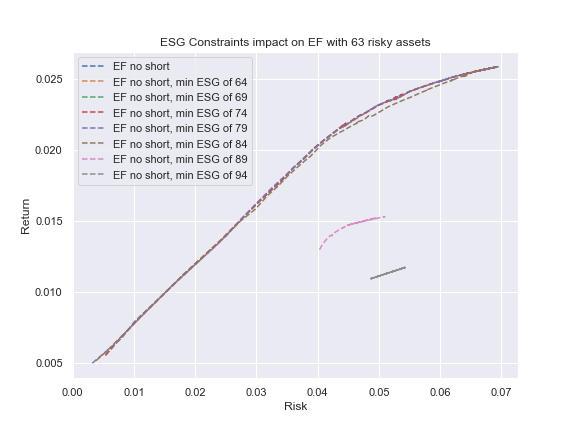
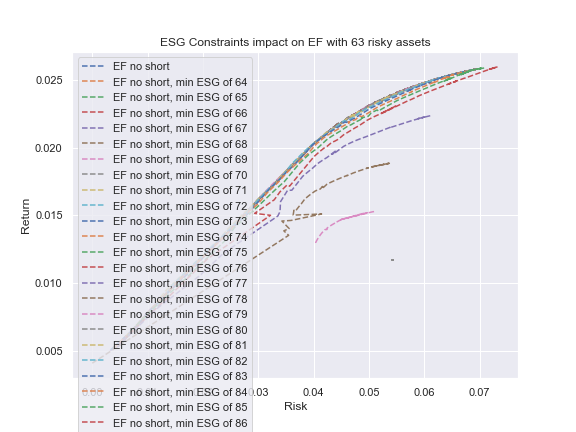
figures for exclusion method

diff --git a/Tests_ESG.py b/Tests_ESG.py
@@ -65,8 +65,8 @@ st.process_data()
 st.compute_monthly_returns()
 
 # 0: MSCI 1: Sustainalytics 2: S&P 3: Refinitiv
-provider = 'Worst'
-_ = st.keep_common_tickers(ESGTV3, sectors_list)
+provider = 'Su'
+_ = st.keep_common_tickers(agencies_df_list[1], sectors_list)
 #_ = st.keep_common_tickers(ESGTV, sectors_list)
 
 stocks_sectors, stocks_ESG = st.select_assets(5)
@@ -111,3 +111,37 @@ for min_ESG in range(int(min(stocks_ESG)), int(max(stocks_ESG)) + step, step):
         save = True
     epf.plot_constrained_frontier(risks_new, returns_new, ESG_min_level = min_ESG, savefig = save, score_source = provider)
     count += 1
+
+#%% Exclude worst ESG stocks from the universe
+
+threshold_list = np.arange(0, 1, 0.05)
+sharpes_t = []
+# 0: MSCI 1: Sustainalytics 2: S&P 3: Refinitiv
+provider = 'Su'
+    
+for threshold in threshold_list:
+    est = Stocks(path, annual_rf)
+    est.process_data()
+    est.compute_monthly_returns()
+
+    
+    _ = est.keep_common_tickers(agencies_df_list[1], sectors_list)
+    
+    _, _ = est.select_assets(5)
+    stocks_sectors, stocks_ESG = est.exclude_assets(threshold)
+    
+    est.compute_mean()
+    est.compute_covariance()
+    mean, _, rf = est.get_mean(), est.get_covariance(), est.get_rf()
+    cov = est.covariance_approximation()
+
+    xpf = ESG_Portfolio(mean,cov,rf, stocks_ESG, short_sales = False, sectors = stocks_sectors)
+    xpf = xpf.risk_free_stats()
+    
+    weights_t = xpf.tangent_portfolio()
+    sharpes_t.append(xpf.get_sharpe(weights_t))
+
+xpf.new_figure()
+xpf.plot_sharpe_exclusion(sharpes_t, threshold_list, True, provider)
+    
+    

diff --git a/Stocks.py b/Stocks.py
@@ -97,18 +97,24 @@ class Stocks:
             self.targetESG = self.targetESG[asset_indices.values]
         return(self.sectors, self.targetESG)        
     
-    def exclude_assets(self, threshold = 0.2):
+    def exclude_assets(self, threshold = 0.2, ascending_better = True):
         worst_count = int(threshold * self.n_assets) + 1
-        best_indices = sorted(range(self.n_assets), key=lambda x: self.targetESG[x])[worst_count:]
-        
+        if ascending_better:
+            best_indices = sorted(range(self.n_assets), key=lambda x: self.targetESG[x])[worst_count:]
+        else:
+            best_indices = sorted(range(self.n_assets), key=lambda x: self.targetESG[x])[:worst_count]
+        best_indices = np.sort(best_indices)
         self.targetESG = [self.targetESG[i] for i in range(self.n_assets) if i in best_indices]
         
         if self.sectors is not None:
             self.sectors = self.sectors.iloc[best_indices]
-            self.n_assets = len(self.sectors)
-        self.index = self.sectors.index
+            self.index = self.sectors.index
+            
+        self.n_assets -= worst_count 
+        
         if self.tickers is not None:
             self.tickers = self.tickers[best_indices]
+            
         self.returns = self.returns.iloc[:, best_indices]
         return(self.sectors, self.targetESG)
      

diff --git a/Tests_ESG_Sectors.py b/Tests_ESG_Sectors.py
@@ -60,9 +60,9 @@ st.process_data()
 st.compute_monthly_returns()
 
 # 0: MSCI 1: Sustainalytics 2: S&P 3: Refinitiv
-provider = 'Worst'
+provider = 'Su'
 
-_ = st.keep_common_tickers(ESGTV3, sectors_list)
+_ = st.keep_common_tickers(agencies_df_list[1], sectors_list)
 #n_assets = 10
 #stocks_ESG = st.restrict_assets(n_assets)
 
@@ -74,7 +74,7 @@ cov = st.covariance_approximation()
 
 n_assets = st.n_assets
 
-st.plot_sectors()
+#st.plot_sectors()
 
 #%% Build a portfolio with restrictions on the minimal ESG score
 
